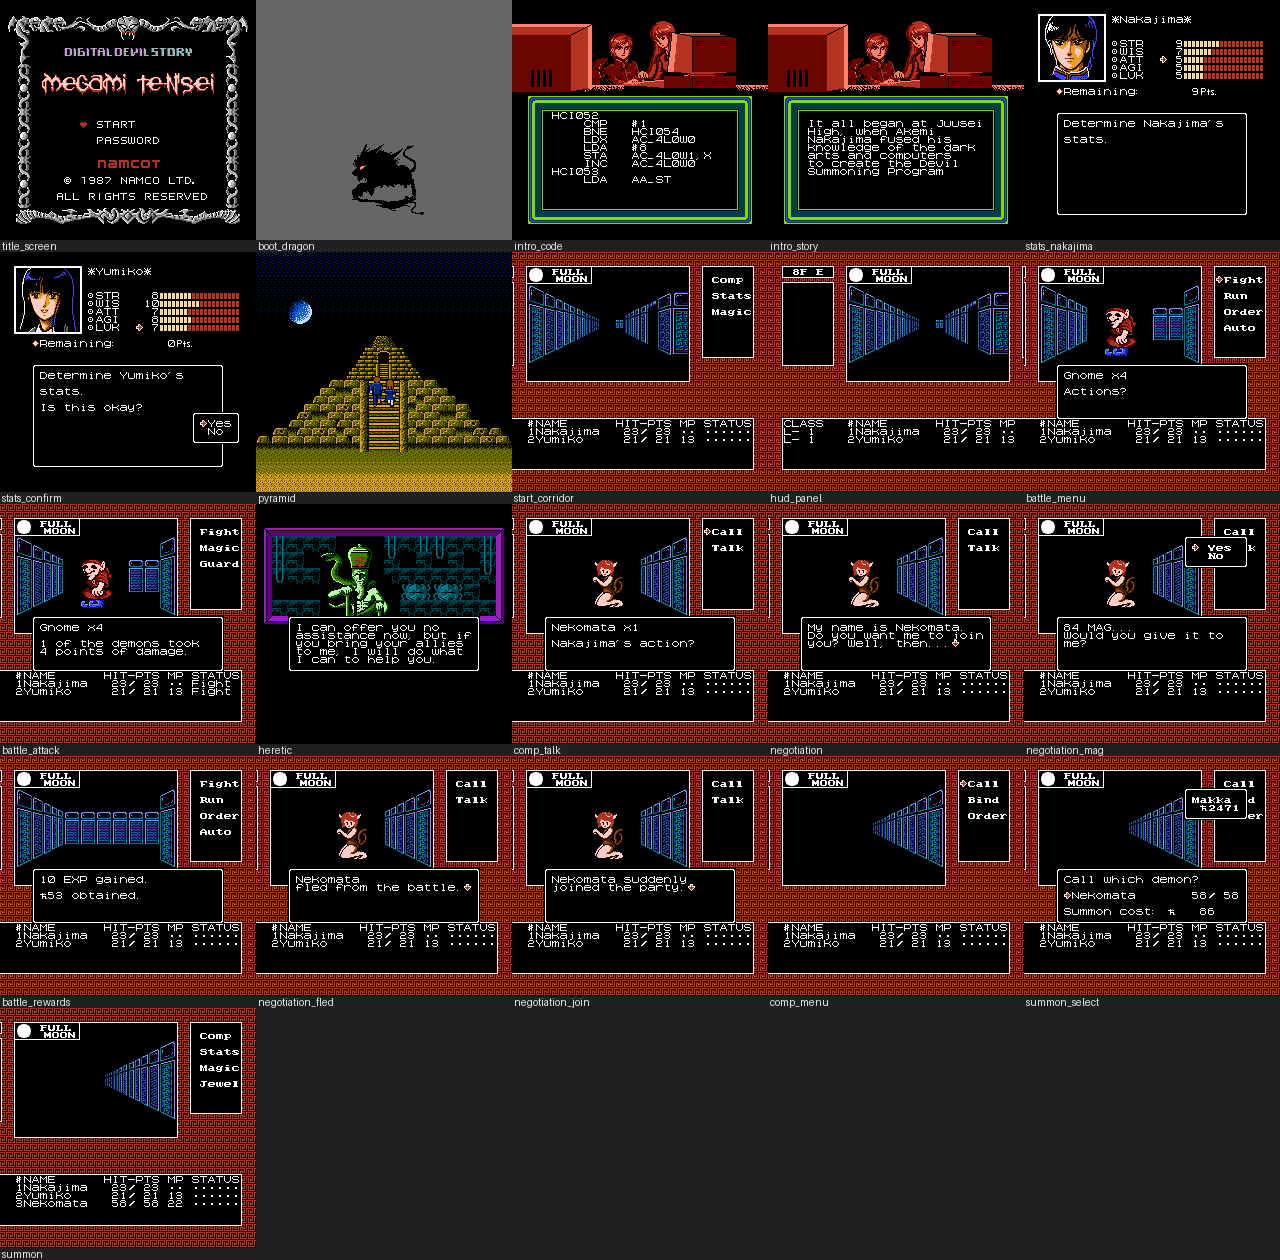
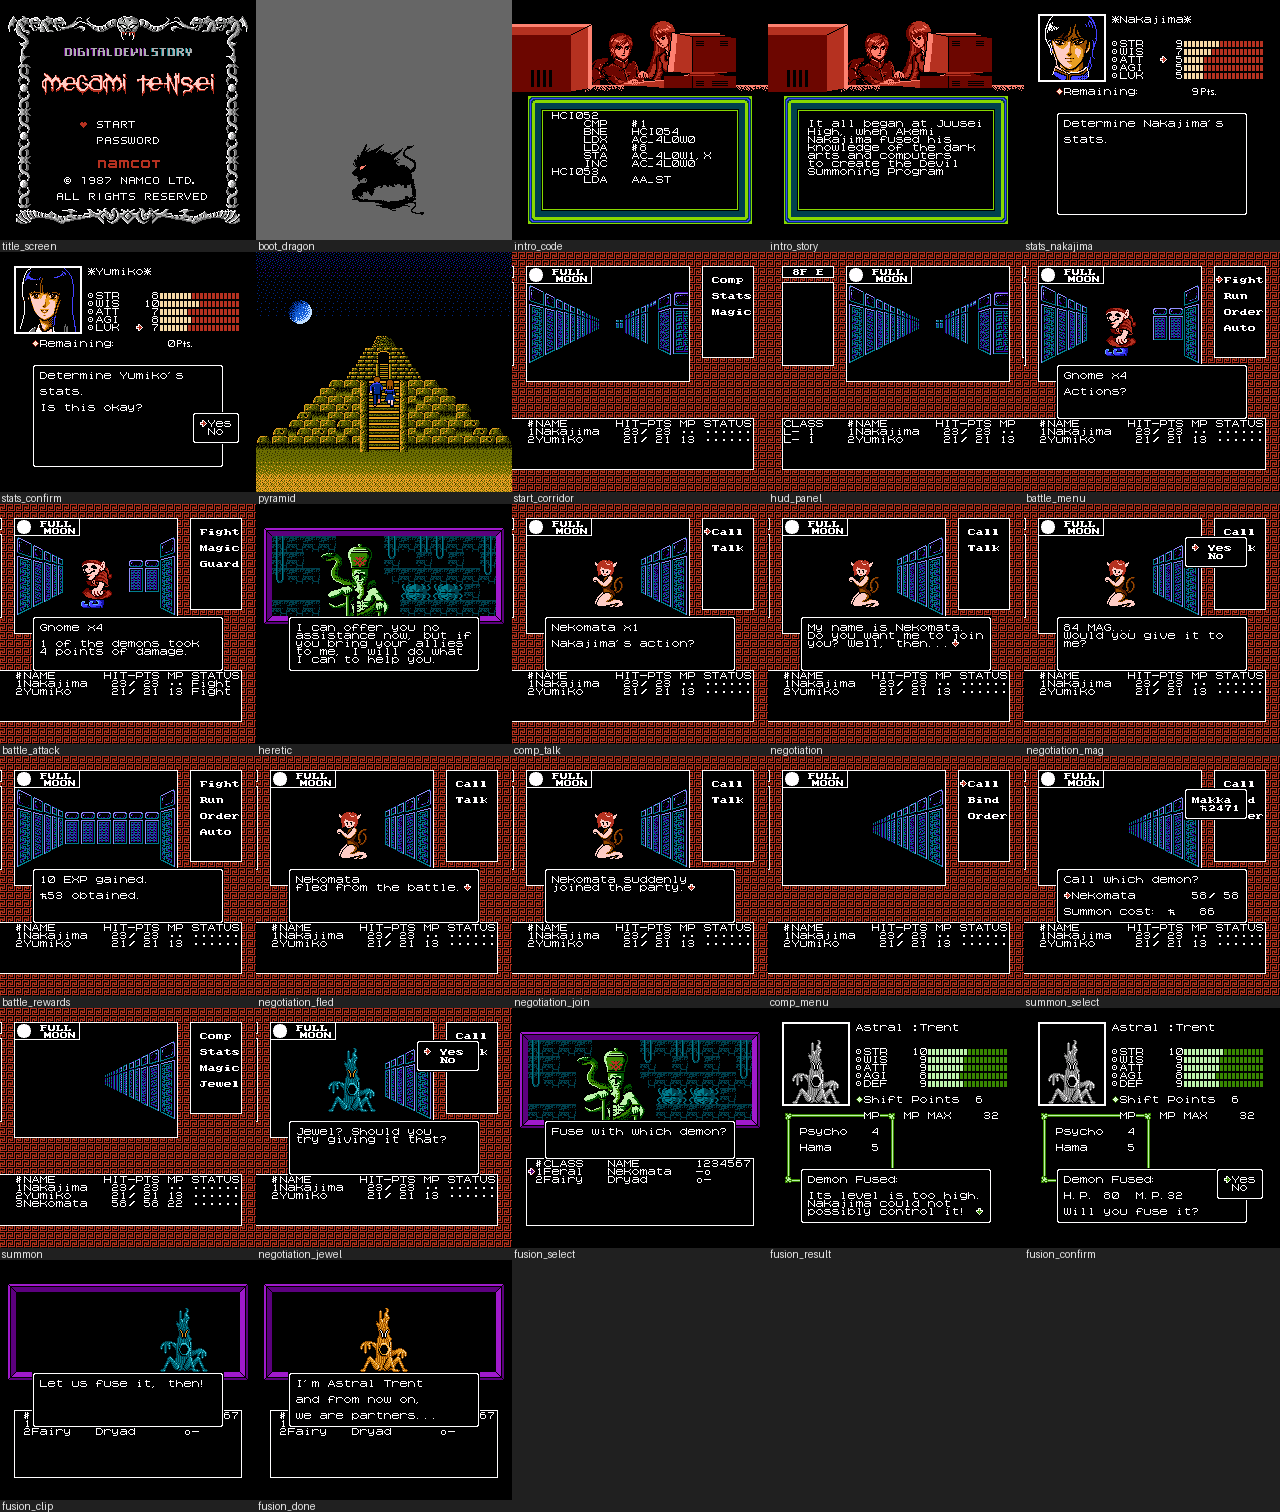
megami-tensei: capture - negotiation and fusion at the Heretic (27 shots)
Claude-Session: https://claude.ai/code/session_011YfKei1TQGbzBteuhtGM2R

diff --git a/games/megami-tensei/shots/main/index.md b/games/megami-tensei/shots/main/index.md
@@ -1,6 +1,6 @@
 # Digital Devil Story: Megami Tensei (Famicom, English translation patch) - shots: main
 
-Platform nes, model ntsc, ROM SHA-1 `0c4ff5eb16a0826a92b6196ee67d8aea2cb7572b`. 21 shots. Contact sheet: [sheet.png](sheet.png). Originals here, 3x nearest-neighbour copies with the same names in `3x/`.
+Platform nes, model ntsc, ROM SHA-1 `0c4ff5eb16a0826a92b6196ee67d8aea2cb7572b`. 27 shots. Contact sheet: [sheet.png](sheet.png). Originals here, 3x nearest-neighbour copies with the same names in `3x/`.
 
 | id | category | caption | settled | image |
 |---|---|---|---|---|
@@ -25,5 +25,11 @@ Platform nes, model ntsc, ROM SHA-1 `0c4ff5eb16a0826a92b6196ee67d8aea2cb7572b`. 
 | comp_menu | system | 8F: Comp menu: Call / Bind / Order (demon summoning program) | yes | [png](comp_menu.png) [3x](3x/comp_menu.png) |
 | summon_select | system | Comp > Call: "Call which demon?" Nekomata 58/58, summon cost 86 Makka | yes | [png](summon_select.png) [3x](3x/summon_select.png) |
 | summon | system | 8F: Nekomata summoned: third party member in the status window (HP 58, MP 22) | yes | [png](summon.png) [3x](3x/summon.png) |
+| negotiation_jewel | system | Talking with a Dryad: "Jewel? Should you try giving it that?" Yes / No | yes | [png](negotiation_jewel.png) [3x](3x/negotiation_jewel.png) |
+| fusion_select | system | The Heretic: "Fuse with which demon?" Feral Nekomata, Fairy Dryad, fusion chart 1-7 | yes | [png](fusion_select.png) [3x](3x/fusion_select.png) |
+| fusion_result | system | Fusion preview: Nekomata + Dryad = Astral Trent, "Its level is too high..." | yes | [png](fusion_result.png) [3x](3x/fusion_result.png) |
+| fusion_confirm | system | Fusion: Trent H.P. 80 M.P. 32, spells Psycho and Hama, "Will you fuse it?" Yes/No | no | [png](fusion_confirm.png) [3x](3x/fusion_confirm.png) |
+| fusion_clip | system | Fusion at the Heretic: Nekomata and Dryad merge into Trent | clip | [png](fusion_clip.png) [3x](3x/fusion_clip.png) [gif](fusion_clip.gif) [gif 3x](3x/fusion_clip.gif) |
+| fusion_done | system | Fusion result: "I'm Astral Trent and from now on, we are partners..." | yes | [png](fusion_done.png) [3x](3x/fusion_done.png) |
 
 Routes (replay with `tools/shoot.py`) are in `index.json` and `shots.txt`.
